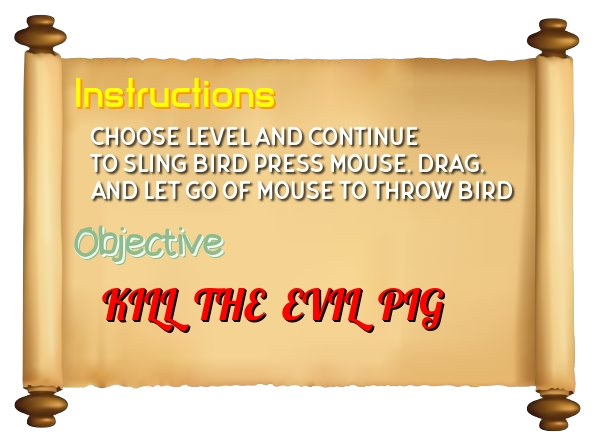
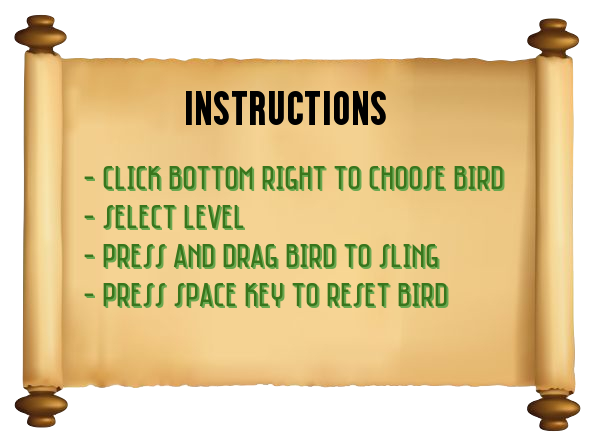
Edit infosheet and added text to mainscreen

Changed region(s): [[0.12, 0.1765, 0.87, 0.7647], [0.6, 0.7353, 0.63, 0.7647]]

diff --git a/preloads.js b/preloads.js
@@ -18,6 +18,7 @@ let unmuteImage;
 let infoImage;
 let infoSheet;
 let winMenu;
+let angryBirdText;
 
 let redBird;
 let blueBird;
@@ -48,6 +49,7 @@ function preload() {
     infoImage = loadImage('images/info.png');
     infoSheet = loadImage('images/infosheet.png');
     winMenu = loadImage('images/winer.png');
+    angryBirdText = loadImage('images/text.png');
 
     startSound = loadSound('sounds/loadscreensound.wav');
     gameSound = loadSound('sounds/gamesound.mp3');

diff --git a/menuScreen.js b/menuScreen.js
@@ -14,11 +14,11 @@ function menuScreen() {
     gameSound.stop();
     startSound.loop();
     menuPlay = false;
-
   }
     background(menuBackground);
     image(infoImage, 1260, 150, 90, 90);
     image(birdImage, 1270, 550, 90, 90);
+    image(angryBirdText, width/4, 100, 800, 150);
     
     image(level1icon, 500, screenHeight/2, 150, 150);
     image(level2icon, screenWidth/2, screenHeight/2, 150, 150);
